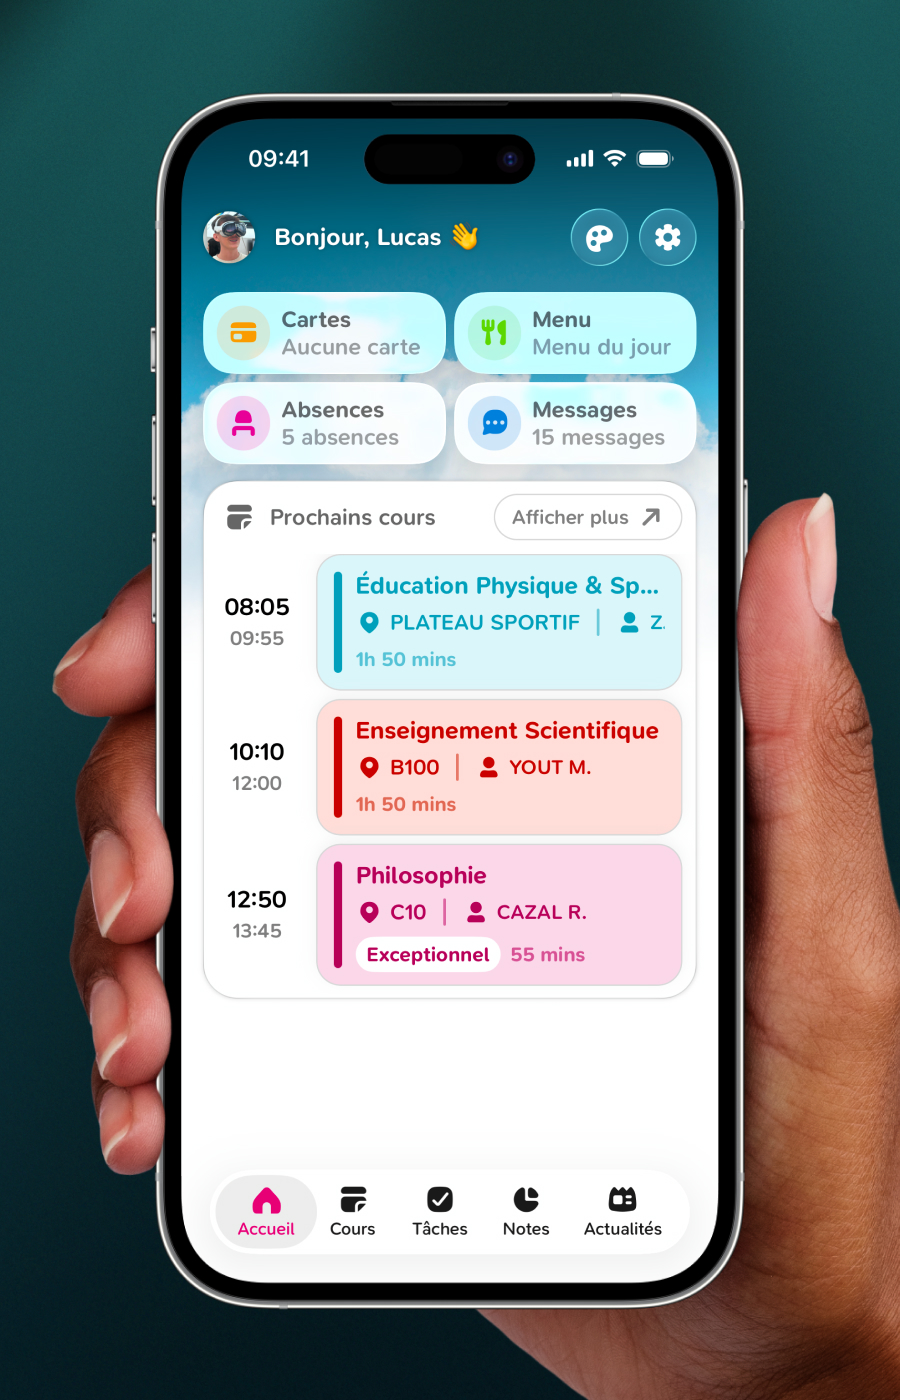
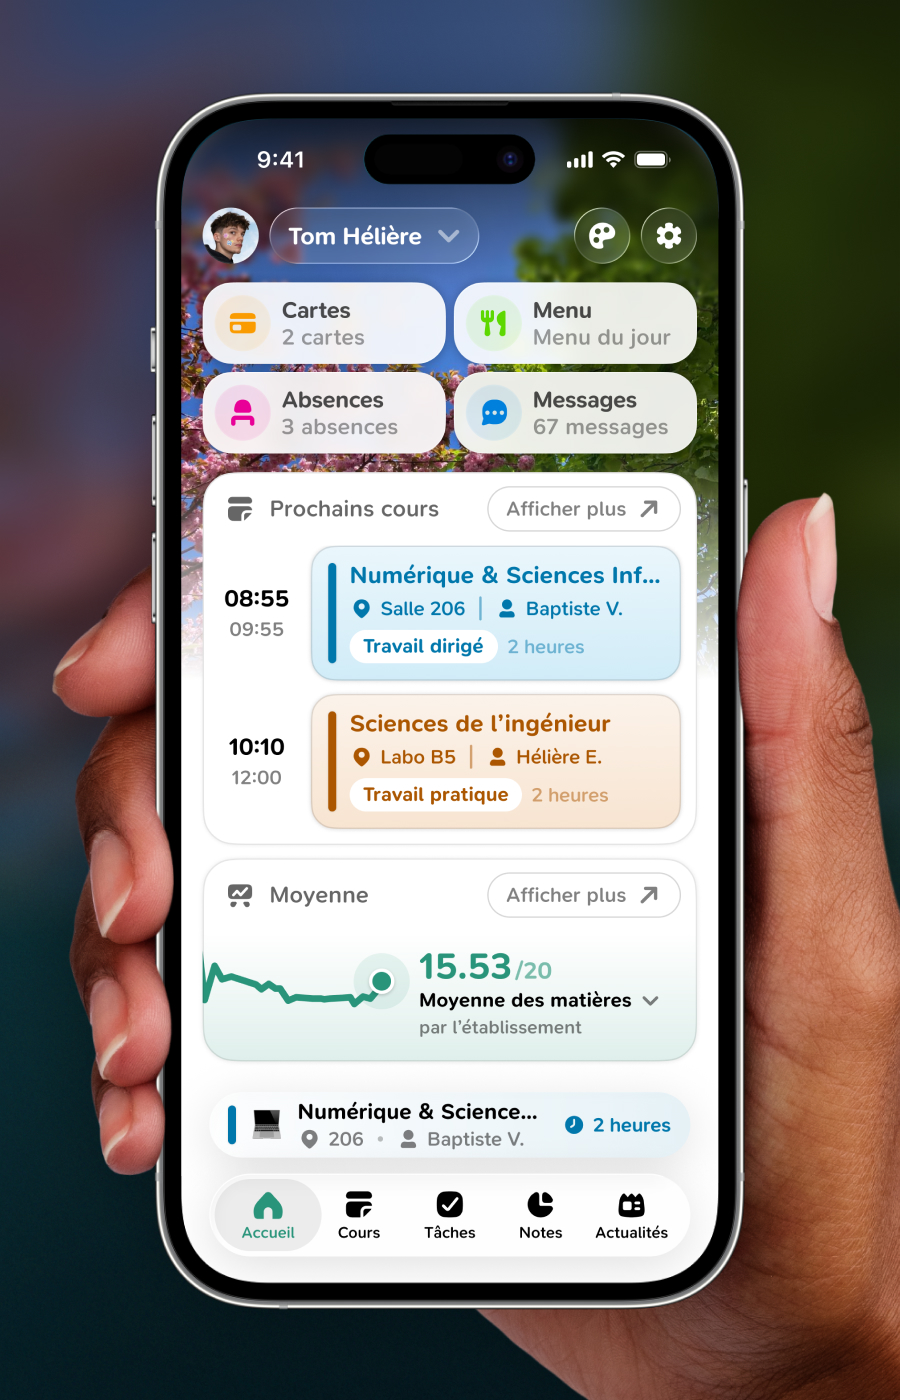
Refactor code structure for improved readability and maintainability

diff --git a/app/components/Gallery/Gallery.tsx b/app/components/Gallery/Gallery.tsx
@@ -7,14 +7,14 @@ import { motion } from "framer-motion";
 const Gallery: React.FC = () => {
   return (
     <LightGalleryWrapper className="w-full lg:w-[136%] max-w-[calc(100vw-20px)] my-8 grid grid-cols-2 lg:grid-cols-3 gap-3">
-      <GalleryImage index={0} className="h-full" src="/design-papillon-high.jpg" alt="Interface de l'application papillon" />
+      <GalleryImage index={0} className="h-full" src="/design-papillon-high.jpg" alt="Interface de l'application Papillon" />
       <div className="w-full flex flex-col gap-3">
         <GalleryImage index={1} className="aspect-[4/3]" src="/design-oklou.jpg" alt="Lecteur de musique style Frutiger Aero" />
-        <GalleryImage index={2} className="aspect-[4/3]" src="/design-psup.jpg" alt="Redesign de la tab bar de Parcoursup" />
+        <GalleryImage index={4} className="aspect-[4/3]" src="/design-assignments.jpg" alt="Interface d'un projet de gestion de tâches" />
       </div>
       <div className="w-full flex flex-row gap-3 lg:flex-col lg:col-span-1 col-span-full">
         <GalleryImage index={3} className="aspect-[4/3]" src="/design-flix.jpg" alt="Réimagination de l'expérience mobile FlixBus" />
-        <GalleryImage index={4} className="aspect-[4/3]" src="/design-ctl.jpg" alt="Projet MMI — Interface de Compose ton Logo" />
+        <GalleryImage index={2} className="aspect-[4/3]" src="/design-metro.jpg" alt="Carte des transpports ferroviaires de Rennes" />
       </div>
     </LightGalleryWrapper>
   );
